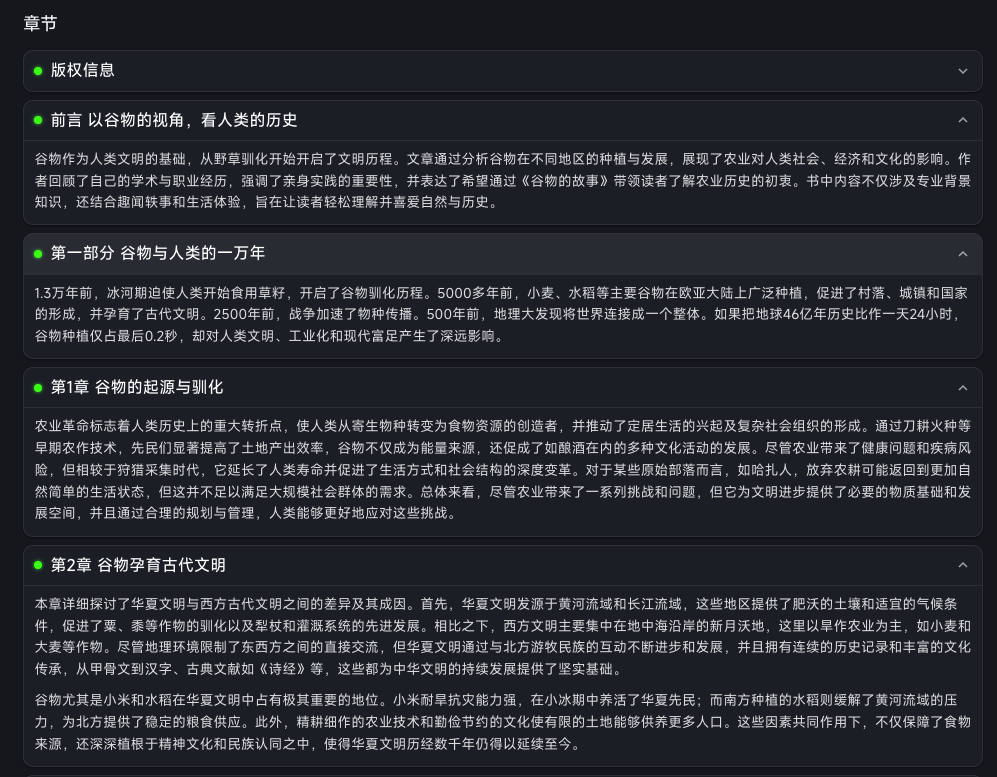
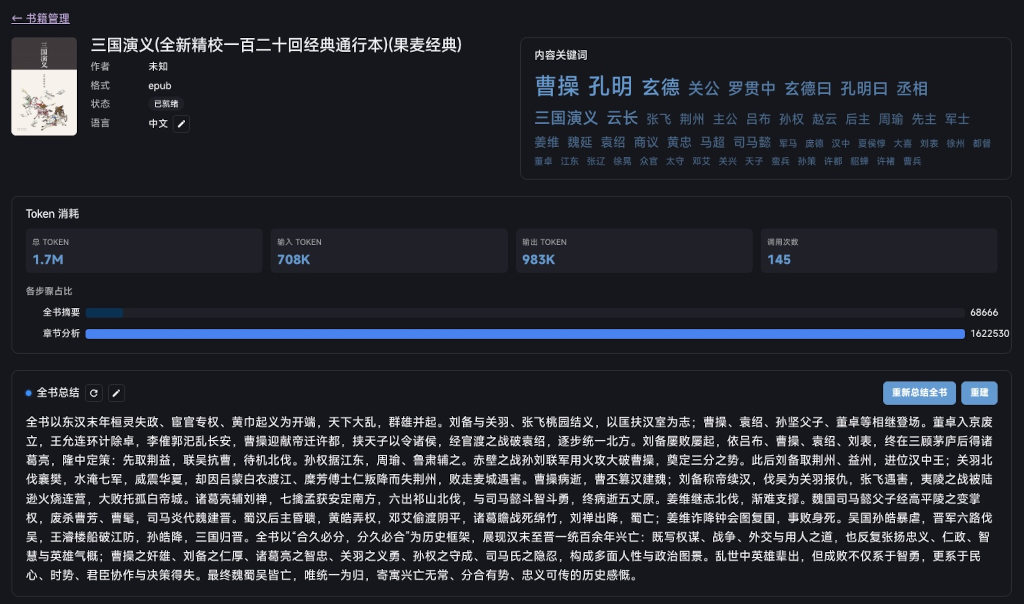
Update readme

Changed region(s): [[0.0, 0.4768, 0.995, 0.9834], [0.0, 0.0, 0.995, 0.2682], [0.0311, 0.298, 0.995, 0.447]]

diff --git a/README.md b/README.md
@@ -12,6 +12,12 @@
 
 ![Chapters](docs/book_detail.jpg)
 
+会话中的问答记录
+
+![Chat](docs/chat_view_1.jpg)
+
+![Chat](docs/chat_view_2.jpg)
+
 ## 项目简介
 
 MyNexus 将 EPUB / PDF / TXT 电子书导入后，自动完成解析、清洗、分块、向量化，构建可检索、可问答（RAG）的书籍知识库，并配套一个管理后台用于查看书籍、任务处理状态与 API Token 管理，服务于 MyBooks/MyReader 生态。
